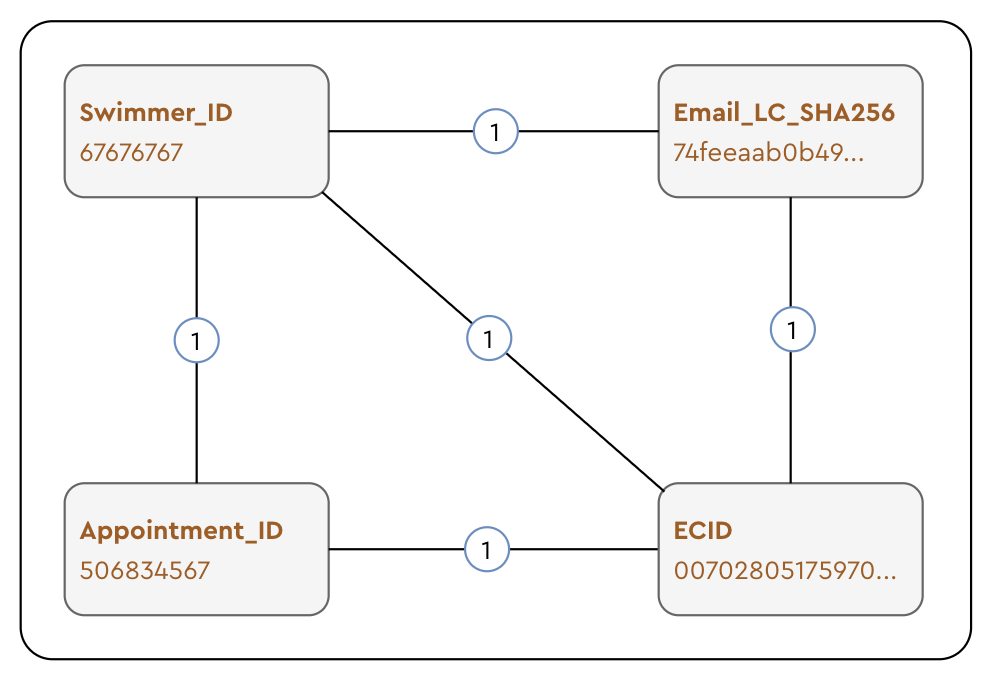
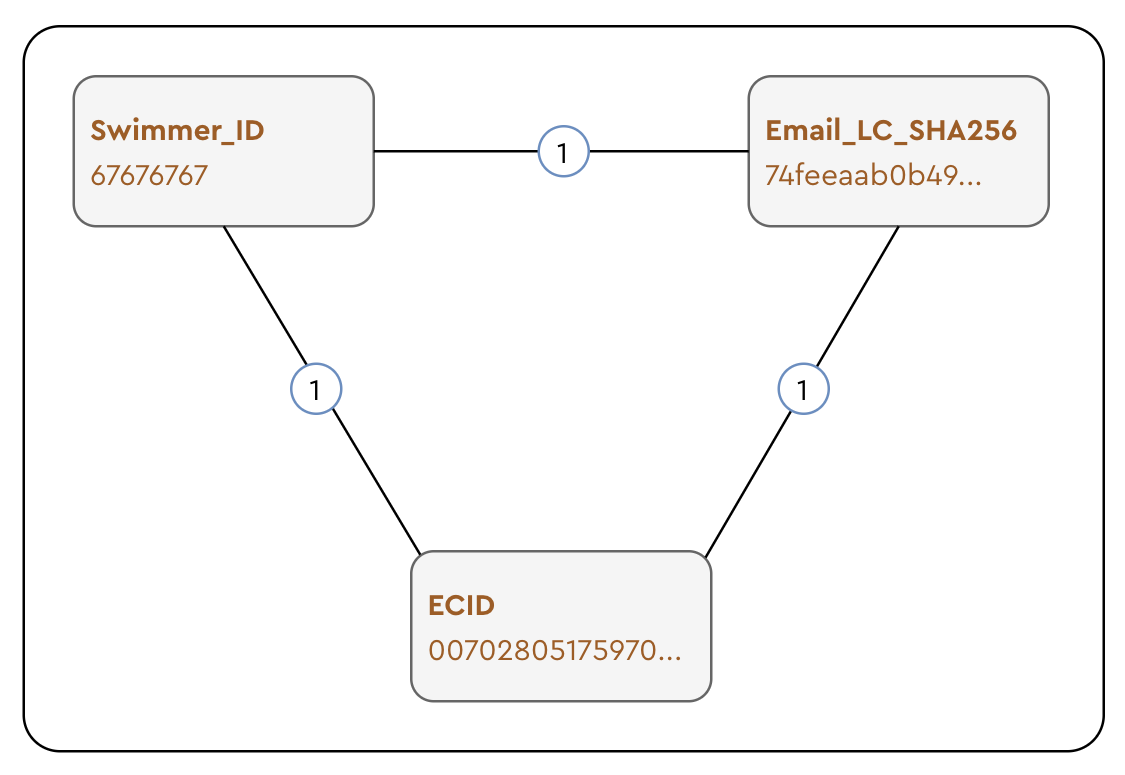
QA - Updated identifiers

diff --git a/adobe/aep/IdentityStrategy.md b/adobe/aep/IdentityStrategy.md
@@ -66,14 +66,14 @@ Following the **Swim Journey** case, we can define the following identifiers for
 We now know **Swimmer_ID**, and **Email_LC_SHA256** are what makes a profile unique.
 
 **What about appointments and products?**
-For this case we're solving for, these concepts are very important but not part of the **Addressable Audience**. We have to separate the concepts between what makes a profile and what actions is the customer taking.
+For the case we're solving for, these concepts are very important but not part of the **Addressable Audience**. We have to separate the concepts between what makes a profile and what actions are customers taking.
 
-The *Identity Strategy* defines the rules for the profile, what *objects* identify a customer, and how do they relate to each other. Appointments are customer actions, that have different states (Scheduled, Canceled, Updated, etc) and products are "Non-people identifiers" that are related to the customer but not part of the profile.
+The *Identity Strategy* defines the rules for the profile, what *objects* identify a customer, and how do they relate to each other. Appointments are customer actions that have different states (Scheduled, Canceled, Updated, etc) and products are "Non-people identifiers" that are related to the customer but not part of the profile.
 
 > [!TIP]
-> Create the identifiers you actually need, and not the ones you think you will need. A good design should allow you to scale, therefore.
+> Create the identifiers you actually need, and not the ones you think you will need. A good design should allow you to scale.
 
-**Another** identifier we cannot forget is the **ECID**. As a customer uses the website and mobile app, Adobe Experience Platform will generate a sticky identifier for the customer device. This Experience Cloud Identifier is called **ECID**. The ECID is unique per device, for example, if I browse the site using one browser, then open another browser, the ECID will be different.
+**Another** identifier we cannot forget is the **ECID**. As a customer uses the website and mobile app, Adobe Experience Platform will generate a sticky identifier for the customer device. This device identifier is called _Experience Cloud Identifier_ or  **ECID**. The ECID is unique per device, for example, if I browse the site using one browser, then open another browser, the ECID will be different.
 
 **Identity Graph**
 Now that we have a clear definition of what makes a profile unique, we can move to the next step, which is defining the **Identity Graph**.
@@ -94,7 +94,7 @@ With this information we can see how the **Identity Graph** will look like:
 > [!NOTE]
 > The **Identity Graph** is a representation of how the different identifiers relate to each other and how they are used to identify a profile.
 
-In our example, we can see how four identities relate to each other based on **one** event. This translates to: `A single customer profile is associated with one event that ties together their Email_LC_SHA256, Appointment_ID, and ECID`.
+In our example, we can see how four identities relate to each other based on **one** event. This translates to: `A single customer profile is associated with one event that ties together their Email_LC_SHA256, and ECID`.
 
 > [!TIP]
 > Use the AEP Graph Simulation tool to visualize your identity graph and test different scenarios.
@@ -122,8 +122,6 @@ Following the case of **Swim Journey**, we have another identifier which is impo
 |----------------------|----------------|--------------|
 | `Swimmer_ID` | Custom Namespace | `Cross-Device ID` |
 | `Email_LC_SHA256` | Standard Namespace | `Email` |
-| `Appointment_ID` | Custom Namespace | `Cross-Device ID` |
-| `Product_ID` | Custom Namespace | `Non-people identifier` |
 | `ECID` | Standard Namespace | `Cookie ID` |
 
 ### Identity Types
@@ -147,7 +145,7 @@ Assuming we have the custom namespaces created, we can now define the identity *
 
 See [Implementation guide for Identity Graph Linking Rules](https://experienceleague.adobe.com/en/docs/experience-platform/identity/features/identity-graph-linking-rules/implementation-guide) for more information.
 
-In this configuration, a profile *uniqueness* is defined by the **Swimmer_ID**, and the **Email_LC_SHA256** has priority over the **ECID** or **Appointment_ID**.
+In this configuration, a profile *uniqueness* is defined by the **Swimmer_ID**, and the **Email_LC_SHA256** has priority over the **ECID**.
 
 ## How are the schemas structured and profiles stitched together?
 
